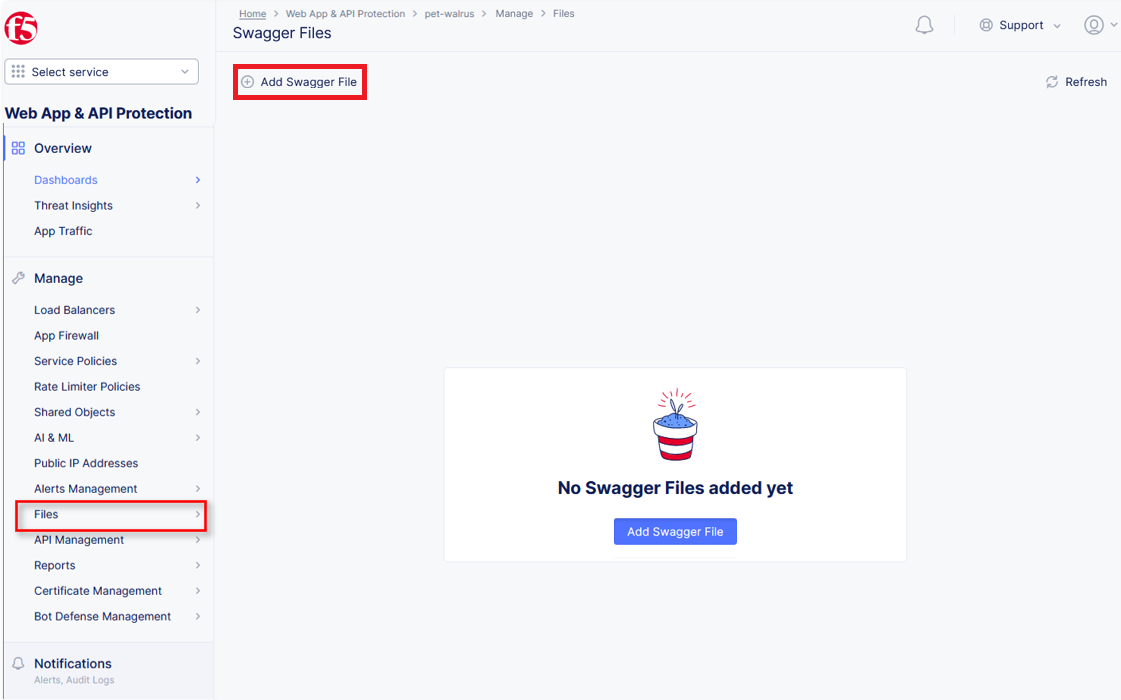
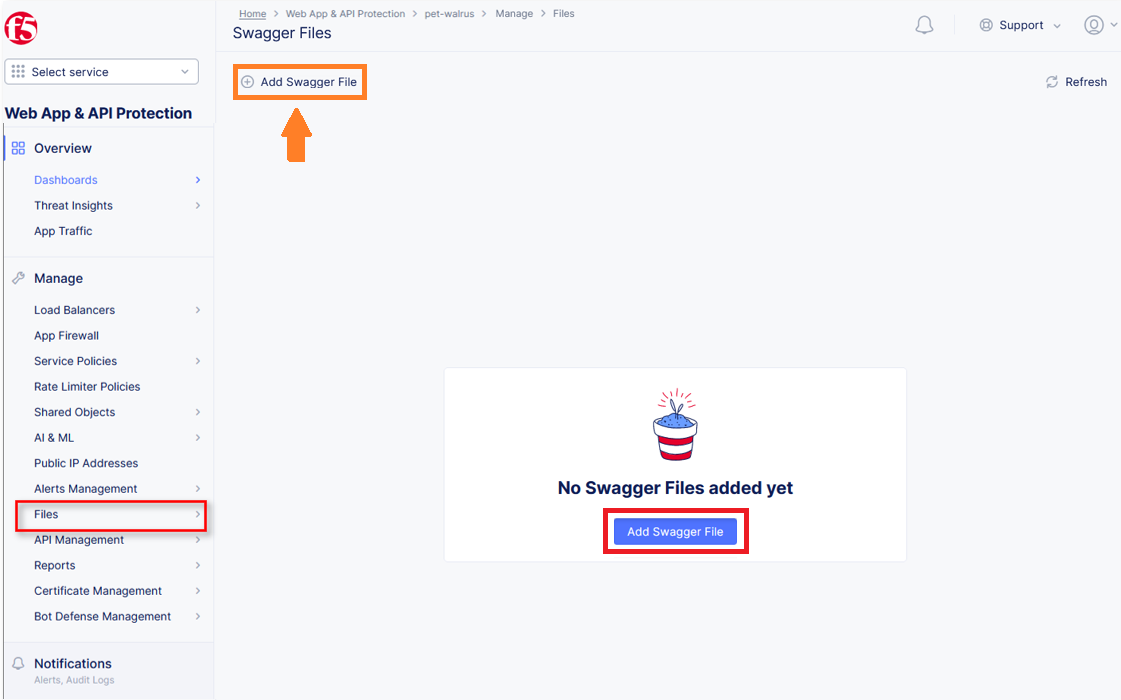
Updated swagger task

Changed region(s): [[0.1873, 0.09, 0.3434, 0.24], [0.5308, 0.72, 0.6869, 0.81]]

diff --git a/docs/class1/lab1.rst b/docs/class1/lab1.rst
@@ -146,6 +146,10 @@ version control features.
 #. Click **Add Swagger File** in the main window area as shown. Alternatively, the link near
    the top of the window can also be used.
 
+   .. note::
+      *If you receive an error clicking on **Add Swagger File** located at the center
+      of the window, click **Add Swagger File** at the top right of the same window.*
+
    .. image:: _static/lab1-task2-002.png
       :width: 800px
 
